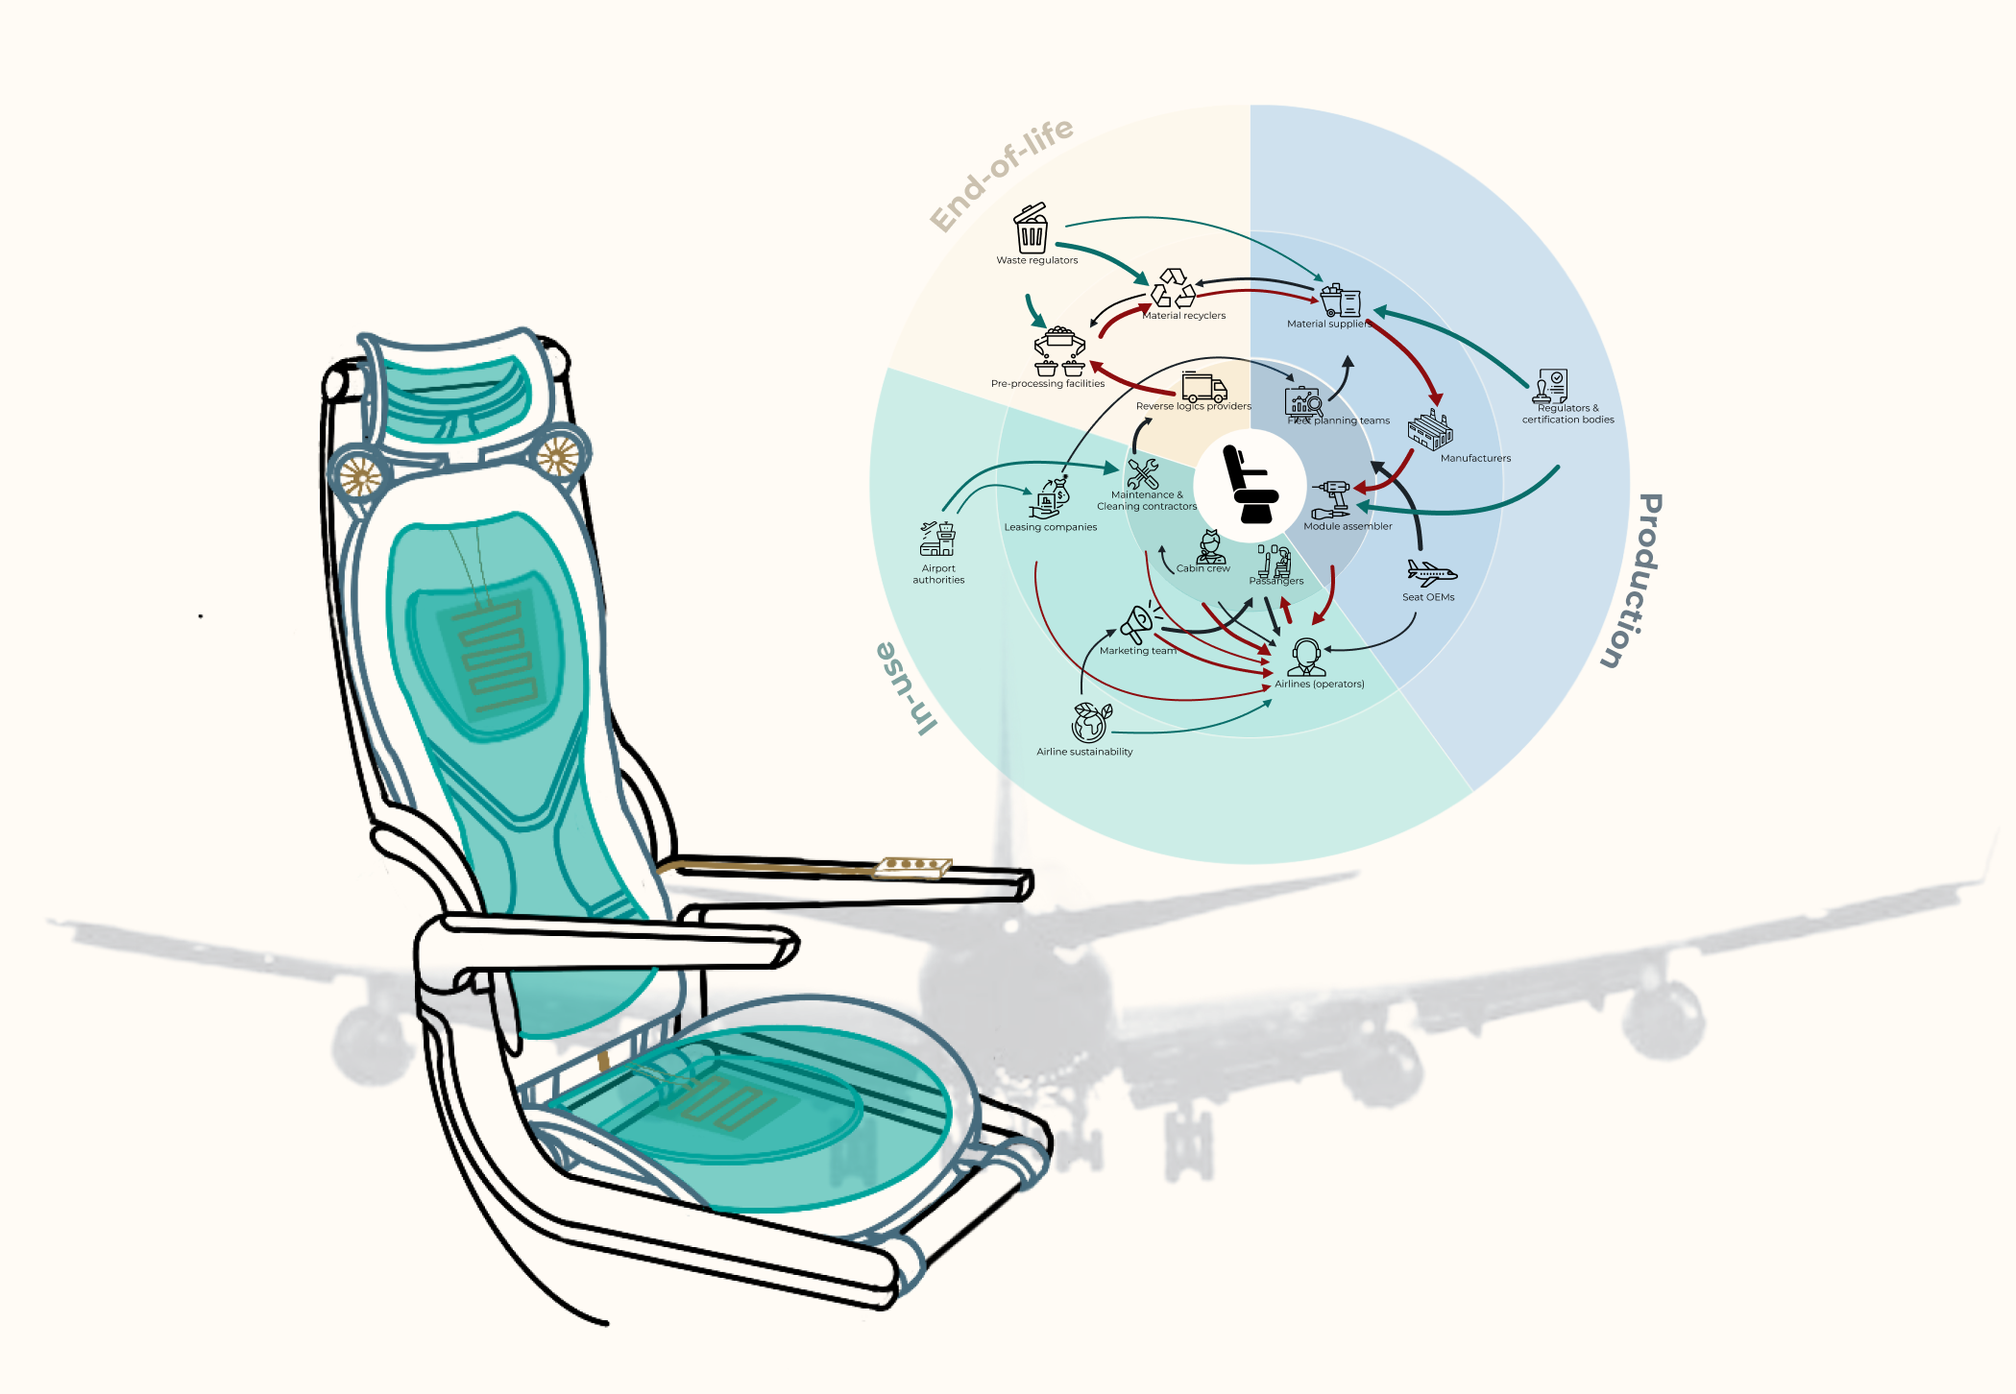
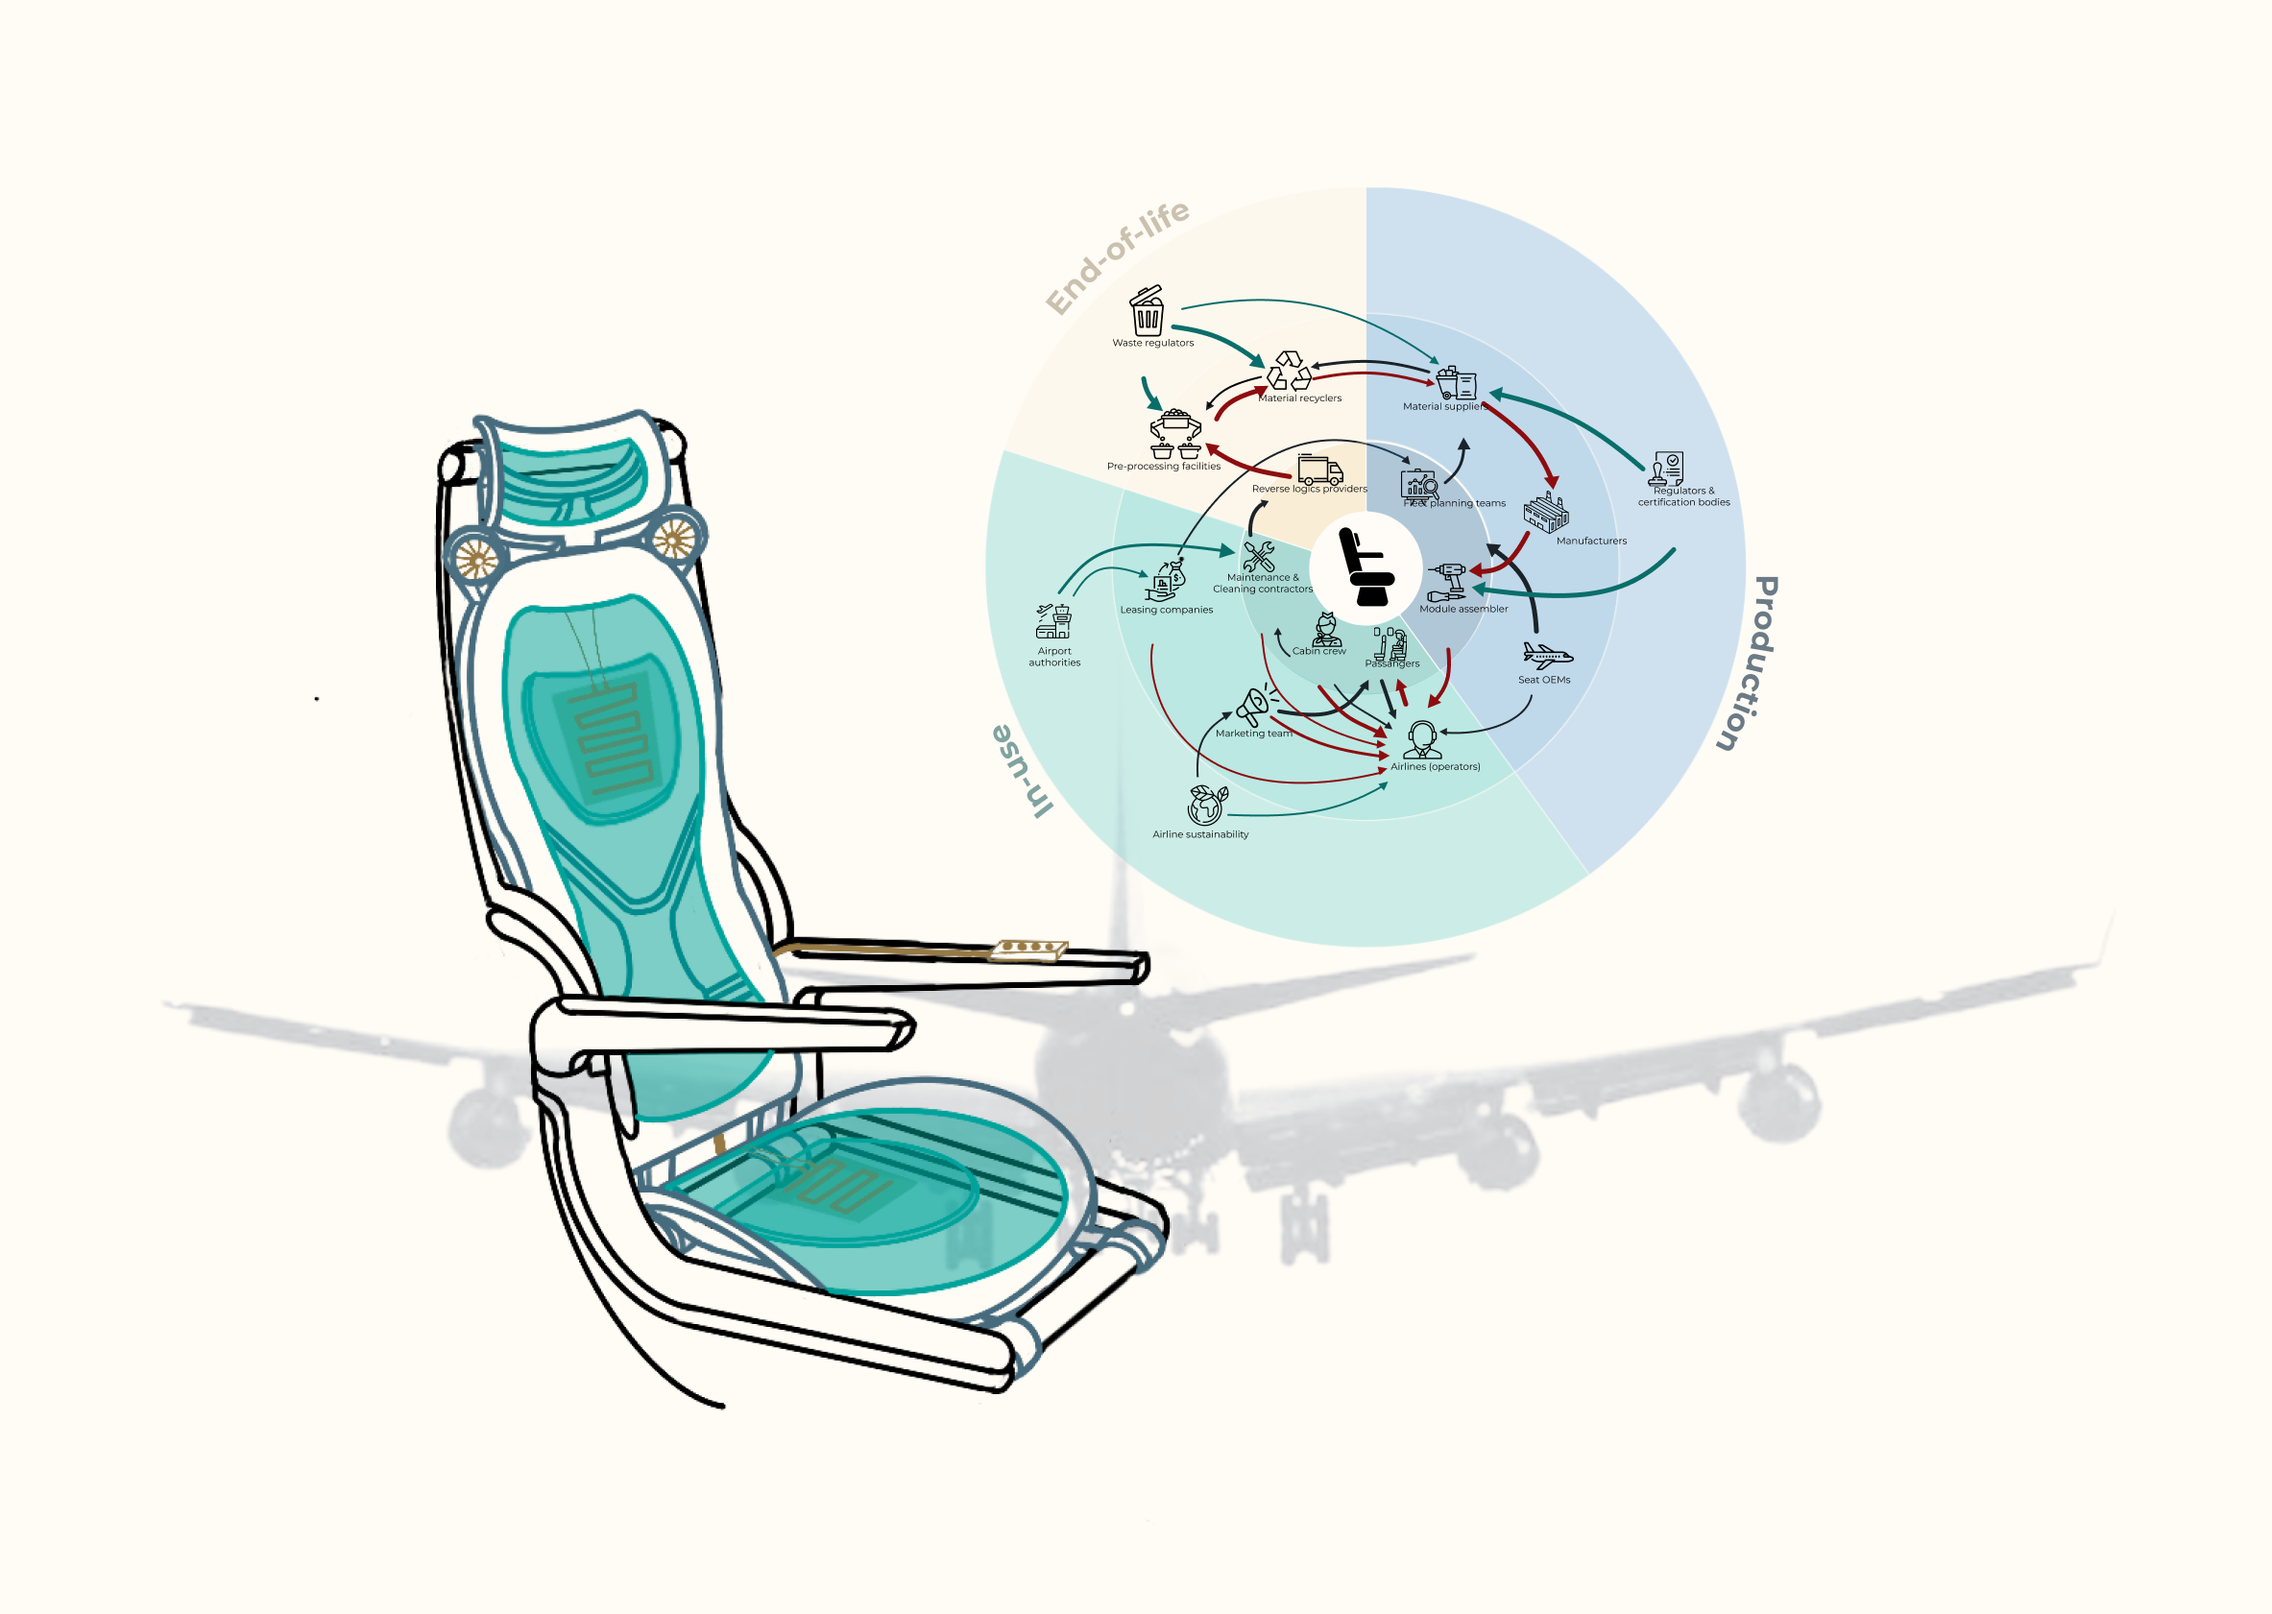
gfoij

Changed region(s): [[0.031, 0.062, 0.9909, 0.9607], [0.8671, 0.5888, 0.929, 0.6198], [0.2787, 0.9298, 0.3097, 0.9607]]

diff --git a/script.js b/script.js
@@ -9,6 +9,78 @@ const lenis = !reduceMotion.matches && 'Lenis' in window
   : null;
 window.lenis = lenis; // project.js pauses it while a project panel is open
 
+// In-page links that pass the bubble animation on the way down:
+// - About (and the "Scroll" arrow) glide down but slow right down while the sun inflates, so the
+//   animation plays at a watchable pace (~1.4 s) instead of flashing past.
+// - Anything below About (Projects, Contact) skips it: jump straight to the point where it has
+//   finished, then glide the short rest of the way.
+// Lenis's own anchor handling still covers every other link.
+
+// Easing for a glide that eases in and out and moves slowly between fractions a and b of the
+// trip (at  times the speed). Built from a speed profile, integrated into a table of time
+// against distance. Also returns the share of the time spent before a and inside [a, b].
+function slowThrough(a, b, slow) {
+  const STEPS = 400;
+  const smoothstep = (x) => { const c = Math.min(1, Math.max(0, x)); return c * c * (3 - 2 * c); };
+  const times = [0];
+  for (let i = 1; i <= STEPS; i++) {
+    const s = (i - 0.5) / STEPS;
+    const ends = 0.15 + 0.85 * Math.sin(Math.PI * s) ** 0.6;
+    const inside = smoothstep((s - a) / 0.06 + 1) * smoothstep((b - s) / 0.06 + 1);
+    times.push(times[i - 1] + 1 / STEPS / (ends * (1 - (1 - slow) * inside)));
+  }
+  const total = times[STEPS];
+  const at = (s) => times[Math.round(Math.min(1, Math.max(0, s)) * STEPS)] / total;
+  const easing = (t) => { // invert the table: distance travelled at time t
+    let lo = 0;
+    let hi = STEPS;
+    while (hi - lo > 1) { const mid = (lo + hi) >> 1; if (times[mid] / total < t) lo = mid; else hi = mid; }
+    const t0 = times[lo] / total;
+    const t1 = times[hi] / total;
+    return (lo + (t1 > t0 ? (t - t0) / (t1 - t0) : 0)) / STEPS;
+  };
+  return { easing, beforeShare: at(a), insideShare: at(b) - at(a) };
+}
+
+if (lenis) {
+  const about = document.querySelector('.about');
+  const aboutEnd = document.querySelector('#about'); // marks where the animation has finished
+  const pageTop = (el) => el.getBoundingClientRect().top + scrollY;
+  document.addEventListener('click', (e) => {
+    const link = e.target.closest('a[href^="#"]');
+    const target = link && link.hash.length > 1 && document.querySelector(link.hash);
+    if (!target) return;
+    const endOfAnimation = pageTop(aboutEnd);
+    const targetTop = pageTop(target);
+    if (targetTop < endOfAnimation - 1 || scrollY >= endOfAnimation - 1) return; // let Lenis handle it
+    e.preventDefault();
+    e.stopPropagation(); // capture phase: Lenis's own anchor handling never sees this click
+    history.replaceState(null, '', link.hash);
+
+    if (targetTop > endOfAnimation + 1) { // below About: skip the animation
+      lenis.scrollTo(endOfAnimation, { immediate: true, force: true });
+      lenis.scrollTo(target, { duration: 0.9, easing: (t) => 1 - (1 - t) ** 3 });
+      return;
+    }
+    // To About: the sun inflates between p = 0.3 and 0.75 (see updateAbout below)
+    const from = scrollY;
+    const trip = endOfAnimation - from;
+    const scrollAtP = (p) => pageTop(about) - innerHeight + p * about.offsetHeight;
+    const a = (scrollAtP(0.3) - from) / trip;
+    const b = (scrollAtP(0.75) - from) / trip;
+    // Inflating takes INFLATE_S. Slow down as little as possible, but enough that the lead-in
+    // to it stays under ~0.6 s.
+    const INFLATE_S = 1.4;
+    let glide;
+    for (const slow of [0.4, 0.35, 0.3, 0.25, 0.2, 0.15]) {
+      glide = slowThrough(a, b, slow);
+      if ((INFLATE_S / glide.insideShare) * glide.beforeShare <= 0.6) break;
+    }
+    const duration = Math.min(3.5, Math.max(1.2, INFLATE_S / Math.max(glide.insideShare, 0.01)));
+    lenis.scrollTo(endOfAnimation, { duration, easing: glide.easing });
+  }, true);
+}
+
 // --- Cover: as you scroll away, the tiles and circles float up faster than the page and
 // turn slightly, each at its own speed (styles.css reads --scroll, --speed and --spin).
 const cover = document.querySelector('.page');
@@ -176,9 +248,9 @@ function goToProject(i) {
   go(step);
 }
 
-// --- Autoplay: next project every 2 s whenever the carousel is on screen. It only pauses
-// mid-drag, when the tab is hidden, or with the pause button (and starts paused for
-// reduced-motion users).
+// --- Autoplay: next project every 2 s whenever the carousel is on screen. It pauses while the
+// mouse is over a card, mid-drag, when the tab is hidden, or with the pause button (and starts
+// paused for reduced-motion users).
 // The current dot (a star) spins to show the time left.
 let userPaused = reduceMotion.matches;
 let dragging = false;
@@ -190,7 +262,8 @@ carousel.style.setProperty('--autoplay', `${remaining}ms`);
 let startedAt = 0;
 
 let panelOpen = false;
-const canPlay = () => !userPaused && !dragging && !panelOpen && onScreen && !document.hidden;
+let hovering = false;
+const canPlay = () => !userPaused && !dragging && !hovering && !panelOpen && onScreen && !document.hidden;
 
 function updateAutoplay() {
   const play = canPlay();
@@ -226,6 +299,15 @@ toggle.addEventListener('click', () => {
 document.addEventListener('visibilitychange', updateAutoplay);
 document.addEventListener('panelchange', (e) => { panelOpen = e.detail.open; updateAutoplay(); });
 new IntersectionObserver(([entry]) => { onScreen = entry.isIntersecting; updateAutoplay(); }, { threshold: 0.3 }).observe(viewport);
+
+// Hold still while the mouse is over a card, so it can be read or clicked (mouse only: a tap
+// on a touch screen shouldn't leave it paused)
+viewport.addEventListener('pointerover', (e) => {
+  if (e.pointerType !== 'mouse') return;
+  hovering = Boolean(e.target.closest('.cards > .card'));
+  updateAutoplay();
+});
+viewport.addEventListener('pointerleave', () => { hovering = false; updateAutoplay(); });
 
 // --- Swipe (touch) and drag (mouse)
 let dragStartX = null;

diff --git a/index.html b/index.html
@@ -9,7 +9,7 @@
   <link rel="preconnect" href="https://fonts.gstatic.com" crossorigin>
   <link href="https://fonts.googleapis.com/css2?family=Fraunces:opsz,wght,SOFT,WONK@9..144,400,0,1;9..144,600,0,1;9..144,700,0,1&display=swap" rel="stylesheet">
   <link rel="stylesheet" href="https://unpkg.com/lenis@1.3.26/dist/lenis.css">
-  <link rel="stylesheet" href="styles.css?v=20261007173407">
+  <link rel="stylesheet" href="styles.css?v=20261008212621">
 </head>
 <body>
   <!-- Inline so the photo clip and "!" colour work even when opened straight from disk -->
@@ -561,7 +561,7 @@
   </dialog>
 
   <script src="https://unpkg.com/lenis@1.3.26/dist/lenis.min.js"></script>
-  <script src="script.js?v=20261007173407"></script>
-  <script src="project.js?v=20261007173407"></script>
+  <script src="script.js?v=20261008212621"></script>
+  <script src="project.js?v=20261008212621"></script>
 </body>
 </html>

diff --git a/cardclutch.html b/cardclutch.html
@@ -9,7 +9,7 @@
   <link rel="preconnect" href="https://fonts.googleapis.com">
   <link rel="preconnect" href="https://fonts.gstatic.com" crossorigin>
   <link href="https://fonts.googleapis.com/css2?family=Fraunces:opsz,wght,SOFT,WONK@9..144,400,0,1;9..144,600,0,1;9..144,700,0,1&display=swap" rel="stylesheet">
-  <link rel="stylesheet" href="styles.css?v=20261007173407">
+  <link rel="stylesheet" href="styles.css?v=20261008212621">
 </head>
 <body>
   <div class="project-page">
@@ -48,6 +48,6 @@
       </div>
     </main>
   </div>
-  <script src="project.js?v=20261007173407"></script>
+  <script src="project.js?v=20261008212621"></script>
 </body>
 </html>

diff --git a/aerodynamic-suv.html b/aerodynamic-suv.html
@@ -9,7 +9,7 @@
   <link rel="preconnect" href="https://fonts.googleapis.com">
   <link rel="preconnect" href="https://fonts.gstatic.com" crossorigin>
   <link href="https://fonts.googleapis.com/css2?family=Fraunces:opsz,wght,SOFT,WONK@9..144,400,0,1;9..144,600,0,1;9..144,700,0,1&display=swap" rel="stylesheet">
-  <link rel="stylesheet" href="styles.css?v=20261007173407">
+  <link rel="stylesheet" href="styles.css?v=20261008212621">
 </head>
 <body>
   <div class="project-page project-page--wide">

diff --git a/aircraft-seat-design.html b/aircraft-seat-design.html
@@ -9,7 +9,7 @@
   <link rel="preconnect" href="https://fonts.googleapis.com">
   <link rel="preconnect" href="https://fonts.gstatic.com" crossorigin>
   <link href="https://fonts.googleapis.com/css2?family=Fraunces:opsz,wght,SOFT,WONK@9..144,400,0,1;9..144,600,0,1;9..144,700,0,1&display=swap" rel="stylesheet">
-  <link rel="stylesheet" href="styles.css?v=20261007173407">
+  <link rel="stylesheet" href="styles.css?v=20261008212621">
 </head>
 <body>
   <div class="project-page project-page--wide">

diff --git a/aircraft-seat-research.html b/aircraft-seat-research.html
@@ -9,7 +9,7 @@
   <link rel="preconnect" href="https://fonts.googleapis.com">
   <link rel="preconnect" href="https://fonts.gstatic.com" crossorigin>
   <link href="https://fonts.googleapis.com/css2?family=Fraunces:opsz,wght,SOFT,WONK@9..144,400,0,1;9..144,600,0,1;9..144,700,0,1&display=swap" rel="stylesheet">
-  <link rel="stylesheet" href="styles.css?v=20261007173407">
+  <link rel="stylesheet" href="styles.css?v=20261008212621">
 </head>
 <body>
   <div class="project-page project-page--wide">

diff --git a/battery-cooling-plate.html b/battery-cooling-plate.html
@@ -9,7 +9,7 @@
   <link rel="preconnect" href="https://fonts.googleapis.com">
   <link rel="preconnect" href="https://fonts.gstatic.com" crossorigin>
   <link href="https://fonts.googleapis.com/css2?family=Fraunces:opsz,wght,SOFT,WONK@9..144,400,0,1;9..144,600,0,1;9..144,700,0,1&display=swap" rel="stylesheet">
-  <link rel="stylesheet" href="styles.css?v=20261007173407">
+  <link rel="stylesheet" href="styles.css?v=20261008212621">
 </head>
 <body>
   <div class="project-page project-page--wide">

diff --git a/behind-the-collection.html b/behind-the-collection.html
@@ -9,7 +9,7 @@
   <link rel="preconnect" href="https://fonts.googleapis.com">
   <link rel="preconnect" href="https://fonts.gstatic.com" crossorigin>
   <link href="https://fonts.googleapis.com/css2?family=Fraunces:opsz,wght,SOFT,WONK@9..144,400,0,1;9..144,600,0,1;9..144,700,0,1&display=swap" rel="stylesheet">
-  <link rel="stylesheet" href="styles.css?v=20261007173407">
+  <link rel="stylesheet" href="styles.css?v=20261008212621">
 </head>
 <body>
   <div class="project-page project-page--wide">
